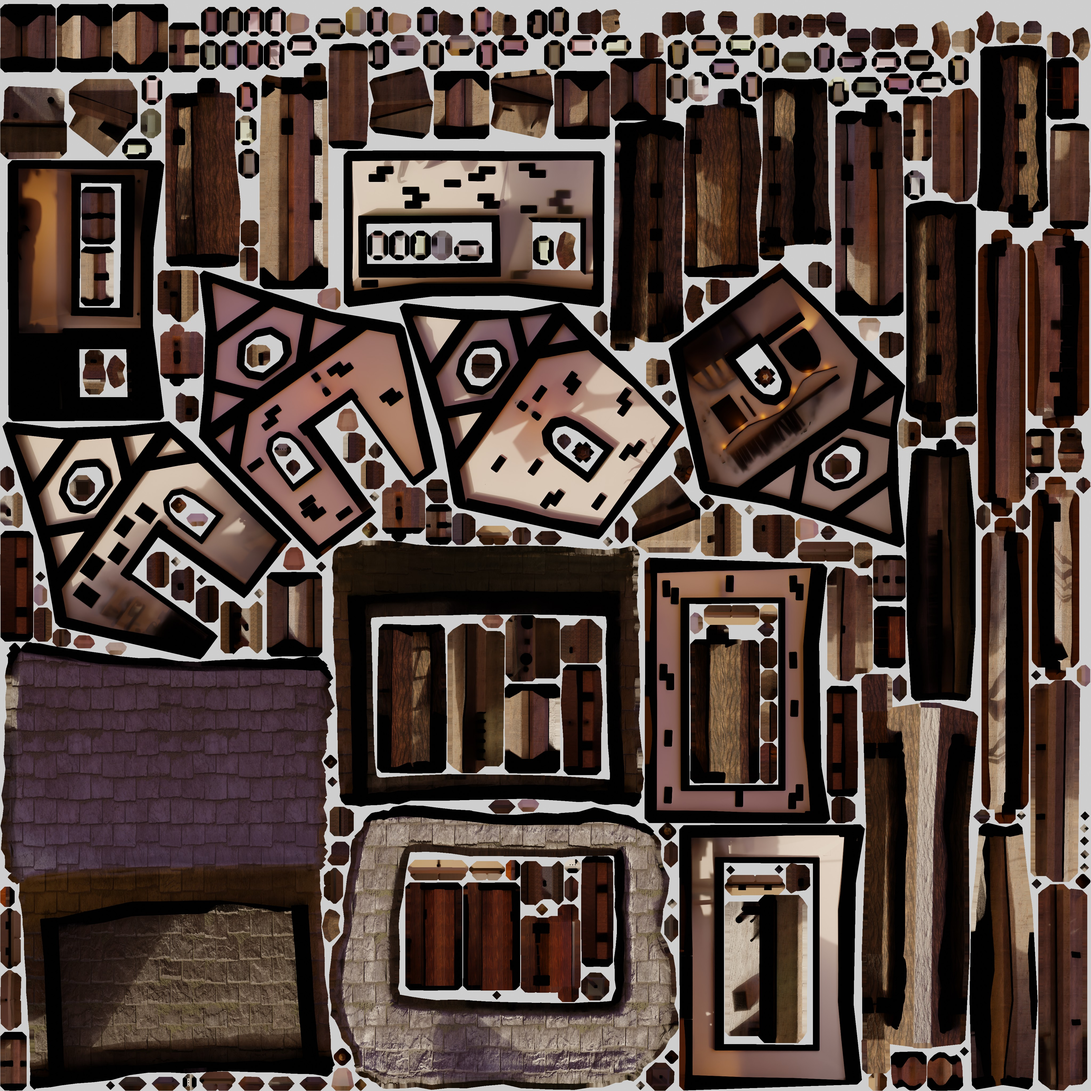
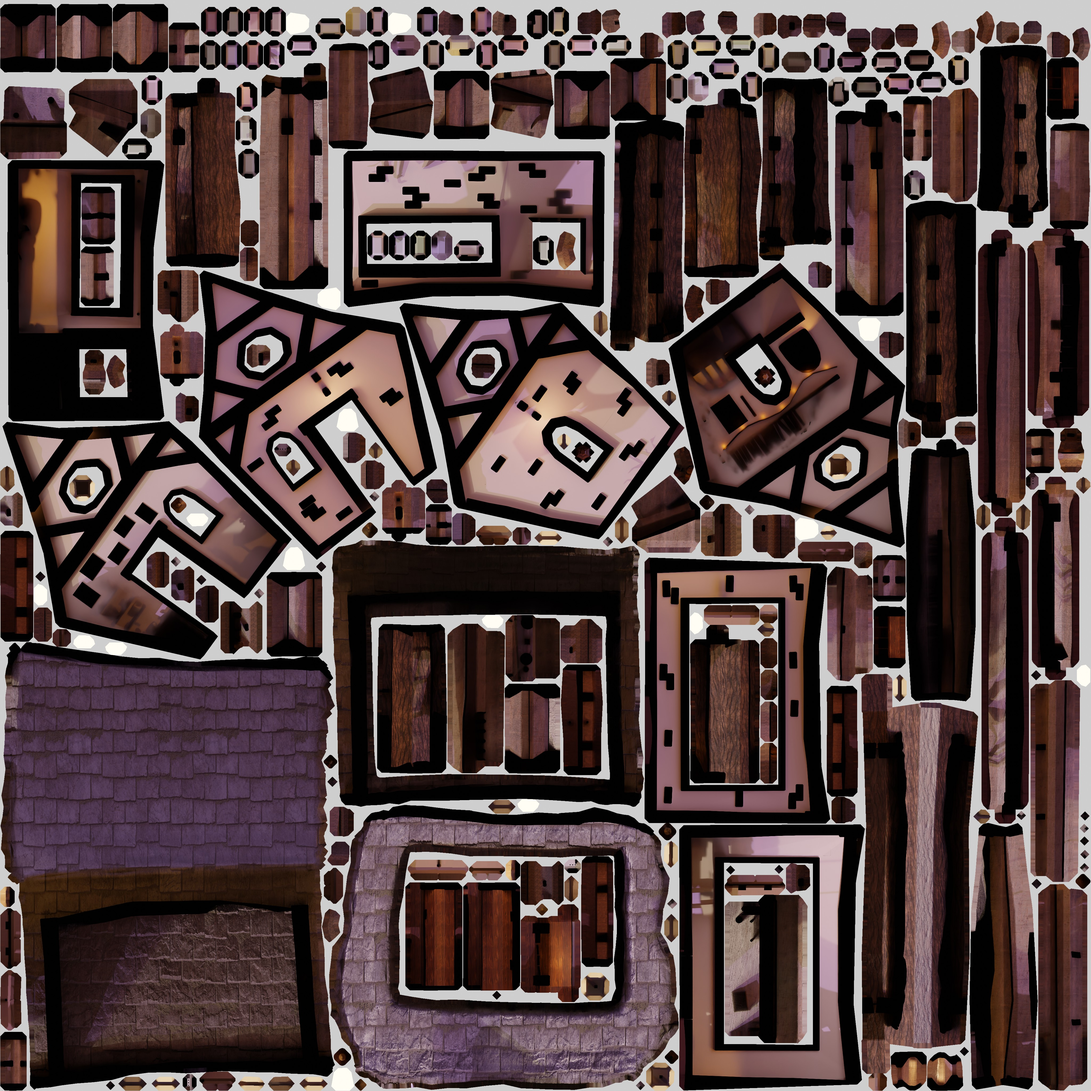
🛋 Room > change textures for plain, pattern

diff --git a/src/Experience/sources.js b/src/Experience/sources.js
@@ -8,42 +8,42 @@ export default [
     {
         name: 'roomPlainTextureSunrise',
         type: 'texture',
-        path: 'models/Room/RoomSmall-sunrise.jpg',
+        path: 'models/Room/RoomPlain-sunrise.jpg',
     },
     {
         name: 'roomPlainTextureDaylight',
         type: 'texture',
-        path: 'models/Room/RoomSmall-daylight.jpg',
+        path: 'models/Room/RoomPlain-daylight.jpg',
     },
     {
         name: 'roomPlainTextureSunset',
         type: 'texture',
-        path: 'models/Room/RoomSmall-sunset.jpg',
+        path: 'models/Room/RoomPlain-sunset.jpg',
     },
     {
         name: 'roomPlainTextureNight',
         type: 'texture',
-        path: 'models/Room/RoomSmall-night.jpg',
+        path: 'models/Room/RoomPlain-night.jpg',
     },
     {
         name: 'roomPatternTextureSunrise',
         type: 'texture',
-        path: 'models/Room/RoomBig-sunrise.jpg',
+        path: 'models/Room/RoomPattern-sunrise.jpg',
     },
     {
         name: 'roomPatternTextureDaylight',
         type: 'texture',
-        path: 'models/Room/RoomBig-daylight.jpg',
+        path: 'models/Room/RoomPattern-daylight.jpg',
     },
     {
         name: 'roomPatternTextureSunset',
         type: 'texture',
-        path: 'models/Room/RoomBig-sunset.jpg',
+        path: 'models/Room/RoomPattern-sunset.jpg',
     },
     {
         name: 'roomPatternTextureNight',
         type: 'texture',
-        path: 'models/Room/RoomBig-night.jpg',
+        path: 'models/Room/RoomPattern-night.jpg',
     },
 
     // Cottage
